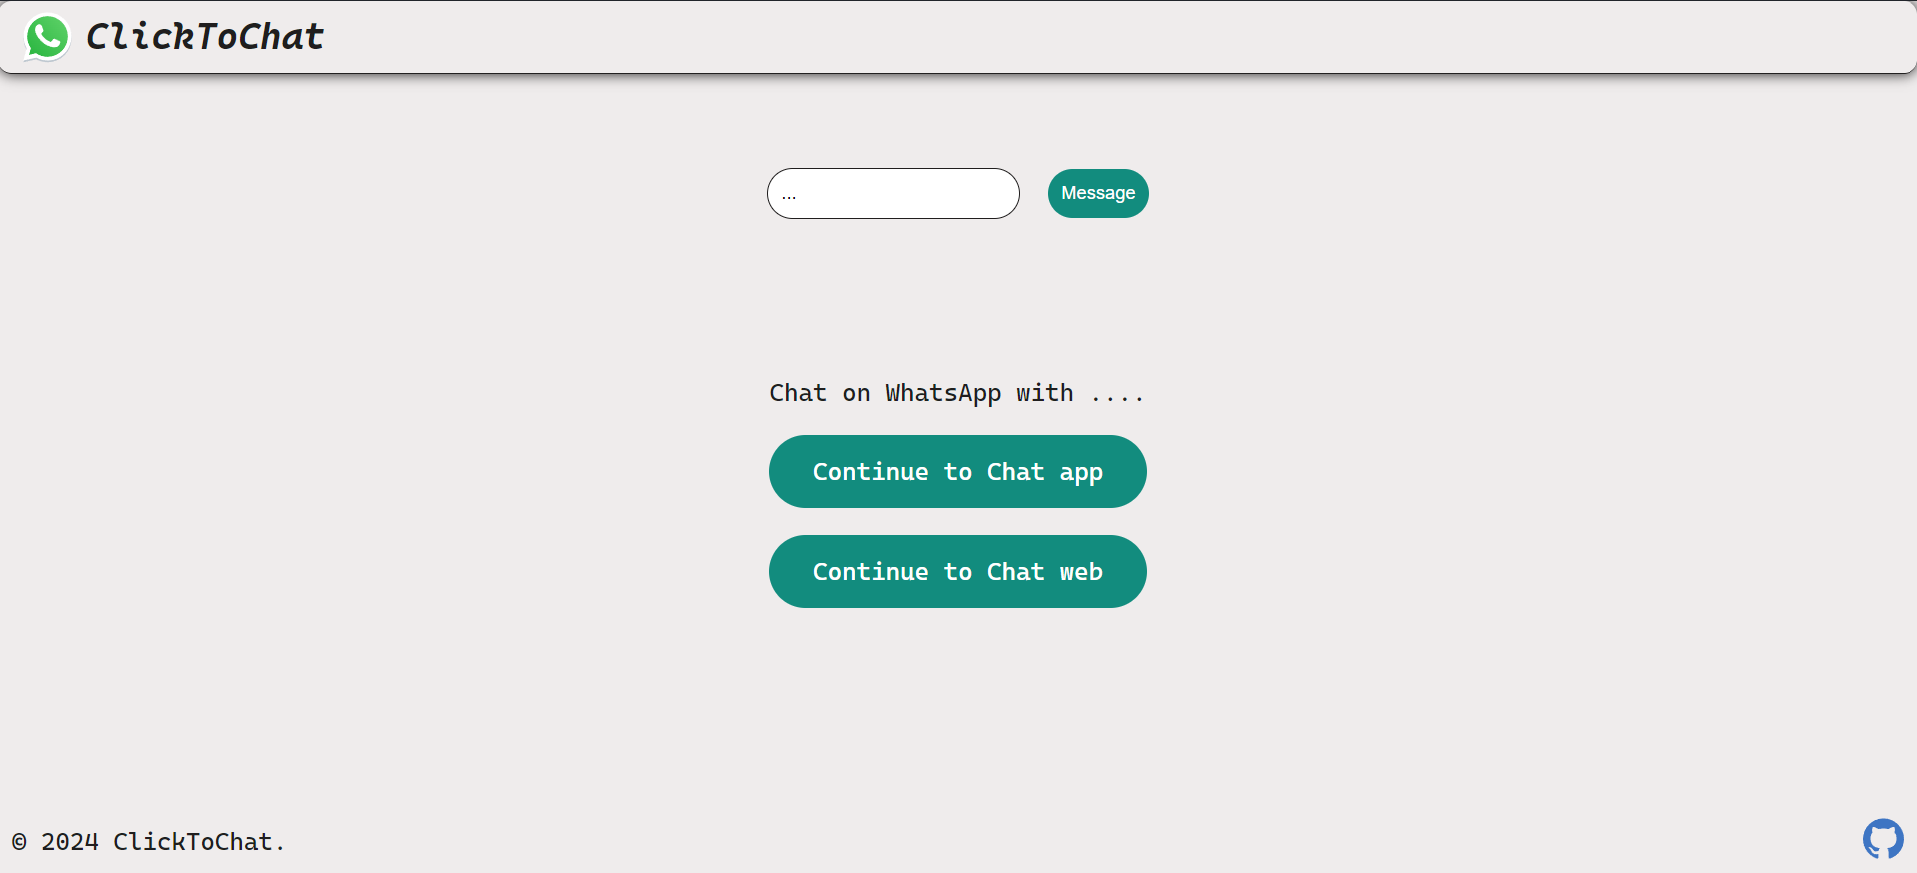
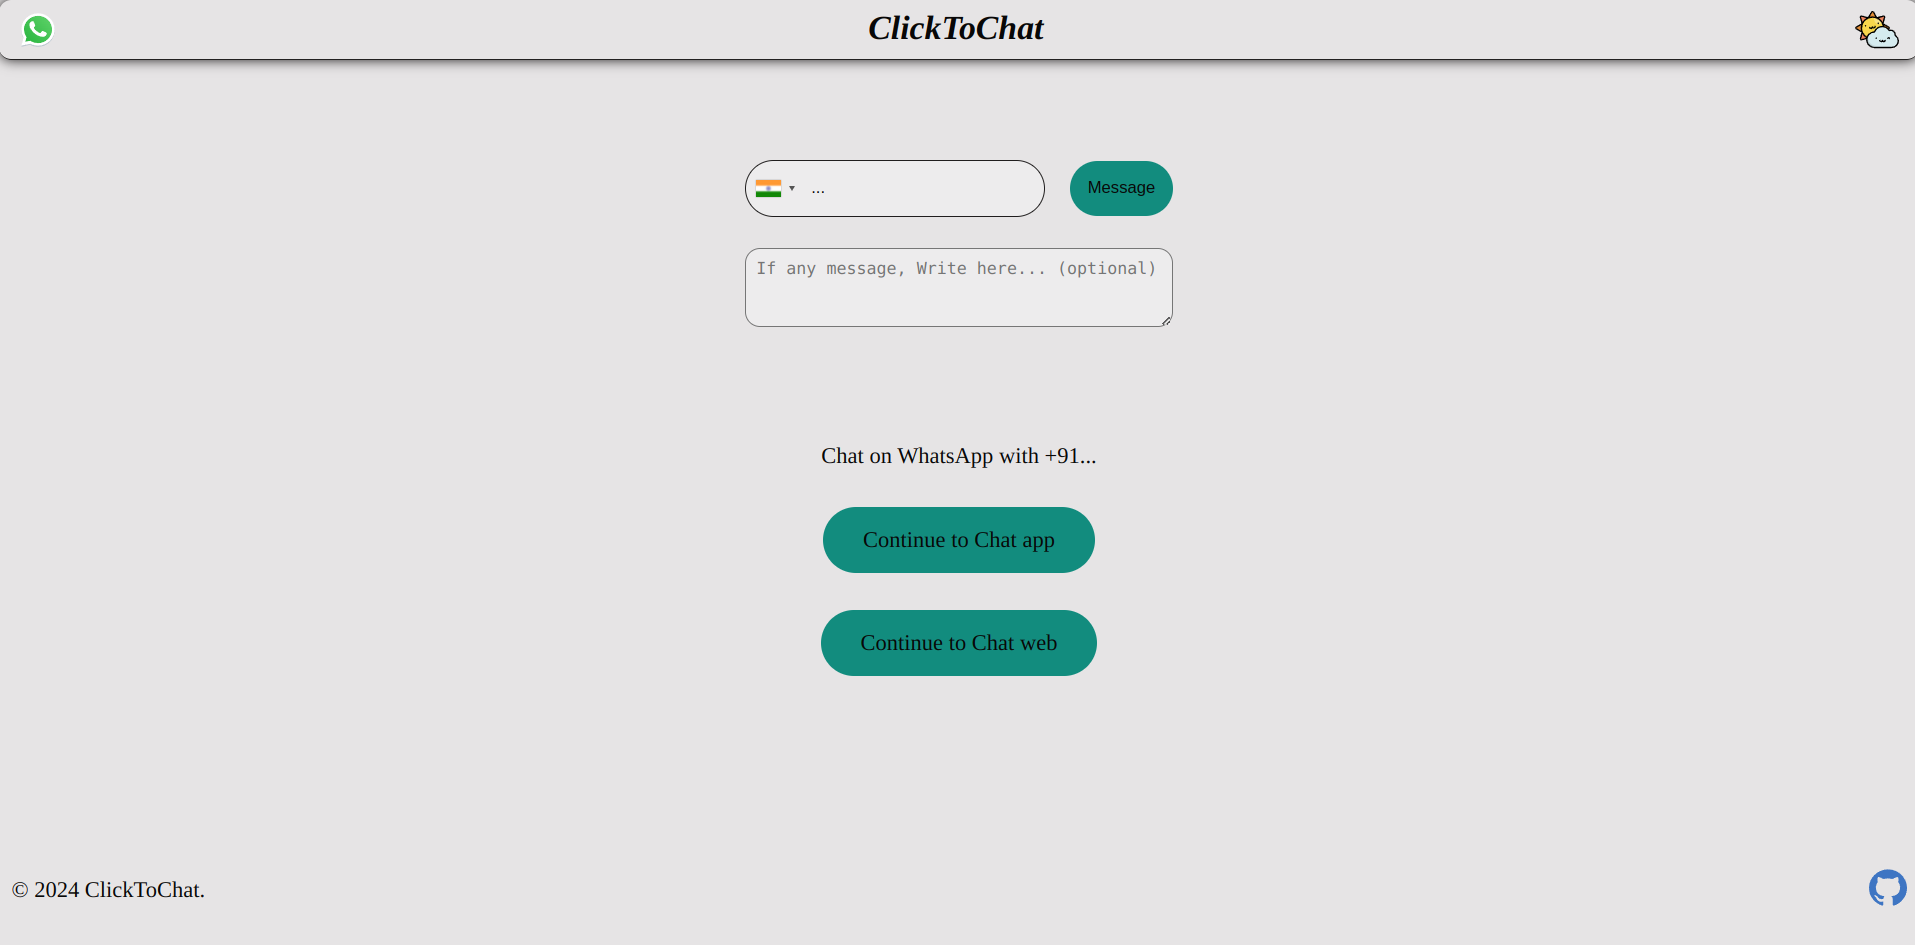
country-code text-area

diff --git a/script.js b/script.js
@@ -8,14 +8,24 @@ const error = document.querySelector(".error");
 const mode = localStorage.getItem("mode") || "";
 const body = document.querySelector(" body");
 const themeBtnImg = document.querySelector(".themeBtnImg");
+const inputMessage = document.querySelector(".textArea");
 
 document.body.className = mode;
 
+//  theme mode
 themeBtnImg.addEventListener("click", () => {
   localStorage.setItem("mode", mode == "light" ? "" : "light");
   body.classList.toggle("light");
 });
 
+// adding country code selector
+const phoneInput = window.intlTelInput(input, {
+  preferredCountries: ["in", "us"],
+  utilsScript:
+    "https://cdnjs.cloudflare.com/ajax/libs/intl-tel-input/17.0.8/js/utils.js",
+});
+
+//  validating mobile number
 const validateMobileNumber = (number) => {
   const phoneNumberRegex = /^(\+\d{1,3})?\d{10,15}$/;
   if (!Number(number)) {
@@ -32,7 +42,7 @@ inputForm.addEventListener("submit", (e) => {
   createLinkMob.remove();
   createLinkWeb.remove();
   chatInfo.textContent = "";
-  if (input.value === "") {
+  if (phoneInput.getNumber() === "") {
     error.textContent = "Please enter a Mobile Number";
     const interval = setInterval(() => {
       error.textContent = "";
@@ -40,7 +50,7 @@ inputForm.addEventListener("submit", (e) => {
     }, 2000);
     return;
   } else {
-    const isNumber = input.value.replace(/\s/g, "");
+    const isNumber = phoneInput.getNumber().replace(/\s/g, "");
     const result = validateMobileNumber(isNumber);
     if (result.error) {
       error.textContent = result.error;
@@ -50,13 +60,10 @@ inputForm.addEventListener("submit", (e) => {
       }, 2000);
       return;
     }
-    let number = result.phoneNumber;
-    if (number.length === 10) {
-      number = "+91" + number;
-    }
-    chatInfo.textContent = `Chat on WhatsApp with ${number}`;
-    const urlWeb = `https://web.whatsapp.com/send/?phone=${number}&text&type=phone_number&app_absent=0`;
-    const urlMob = `https://api.whatsapp.com/send/?phone=${number}&text&type=phone_number&app_absent=0"`;
+    console.log(inputMessage.value);
+    chatInfo.textContent = `Chat on WhatsApp with ${phoneInput.getNumber()}`;
+    const urlWeb = `https://web.whatsapp.com/send/?phone=${phoneInput.getNumber()}&text=inputMessage.value&type=phone_number&app_absent=0`;
+    const urlMob = `https://api.whatsapp.com/send/?phone=${phoneInput.getNumber()}&text=inputMessage.value&type=phone_number&app_absent=0"`;
     createLinkMob.href = urlMob;
     createLinkMob.target = "_blank";
     createLinkMob.textContent = "Continue to Chat app";

diff --git a/index.html b/index.html
@@ -38,10 +38,15 @@
       name="twitter:image"
       content="https://raw.githubusercontent.com/itzDM/clicktochat/main/images/logo.svg"
     />
-    <link rel="icon" type="image/x-icon" href="./images/logo.svg" />
+    <link rel="icon" type="image/x-icon" href="./images/favicon.svg" />
     <title>Click to Chat</title>
     <link rel="stylesheet" href="style.css" />
     <script src="script.js" defer type="module"></script>
+    <link
+      rel="stylesheet"
+      href="https://cdnjs.cloudflare.com/ajax/libs/intl-tel-input/17.0.8/css/intlTelInput.css"
+    />
+    <script src="https://cdnjs.cloudflare.com/ajax/libs/intl-tel-input/17.0.8/js/intlTelInput.min.js"></script>
   </head>
   <body class="">
     <header>
@@ -53,14 +58,16 @@
     </header>
     <main>
       <form class="form">
-        <div class="form-control">
-          <input
-            class="input"
-            type="text"
-            autofocus
-            placeholder="Enter Mobile Number"
-          />
-          <button type="submit">Message</button>
+        <div class="form-item">
+          <div class="form-control">
+            <input class="input" type="tel" placeholder="Enter Mobile Number" />
+            <button type="submit">Message</button>
+          </div>
+          <textarea
+            class="textArea"
+            rows="3"
+            placeholder="If any message, Write here... (optional) "
+          ></textarea>
         </div>
         <div class="error-place">
           <p class="error"></p>

diff --git a/style.css b/style.css
@@ -57,13 +57,25 @@ form {
   flex-direction: column;
   gap: 20px;
   height: 30vh;
-  margin-top: 30px;
+  margin-top: 80px;
 }
+.form-item {
+  display: flex;
+  flex-direction: column;
+  gap: 25px;
+}
+
 .form-control {
   display: flex;
   flex: 2;
   align-items: center;
   gap: 20px;
+}
+.textArea {
+  background: var(--bgSoft);
+  color: var(--textSoft);
+  padding: 8px;
+  border-radius: 12px;
 }
 
 .error-place {
@@ -82,6 +94,13 @@ form {
 .input:active,
 .input:focus {
   outline: none !important;
+}
+
+.iti--allow-dropdown .iti__flag-container:hover .iti__selected-flag {
+  background: transparent !important;
+}
+.iti__country-list {
+  background-color: var(--bgSoft) !important;
 }
 
 form button {

diff --git a/README.md b/README.md
@@ -10,8 +10,14 @@ Click to chat is WhatsApp's feature allows you to begin a chat with someone with
 
 ## Features:
 
-1. **Error Handling**: An intuitive error handling mechanism ensures that users are notified of any errors that may occur during the process of creating a link.
+1. **Country Code**: You can choose the country code for your number easily.
 
-2. **Create your own link**: Easily create your own link with just a few clicks.
+2. **Messaging**: You can can write any message you want to send to the person.
 
-3. **Chat to App/Web**: You Can Choose to Chat to App or WhatsApp Web .
+3. **Dark/Light**: You can choose between light and dark theme easily by clicking the toggle button on the top right corner.
+
+4. **Create your own link**: Easily create your own link with just a few clicks.
+
+5. **Chat to App/Web**: You Can Choose to Chat to App or WhatsApp Web .
+
+6. **Error Handling**: An intuitive error handling mechanism ensures that users are notified of any errors that may occur during the process of creating a link.
